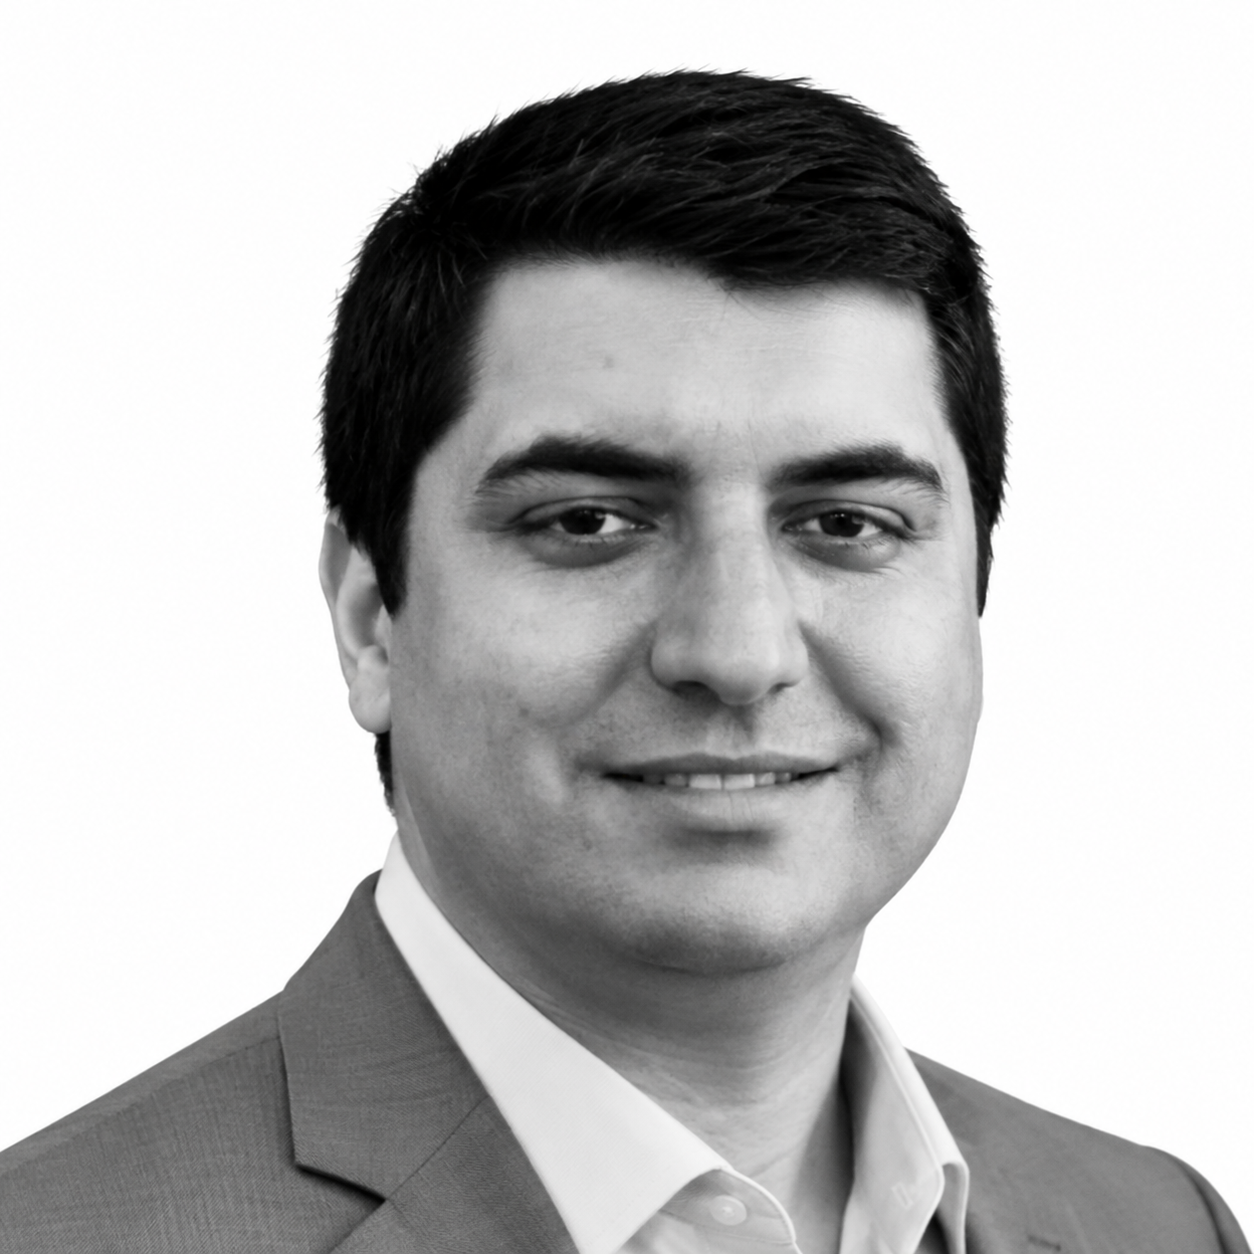
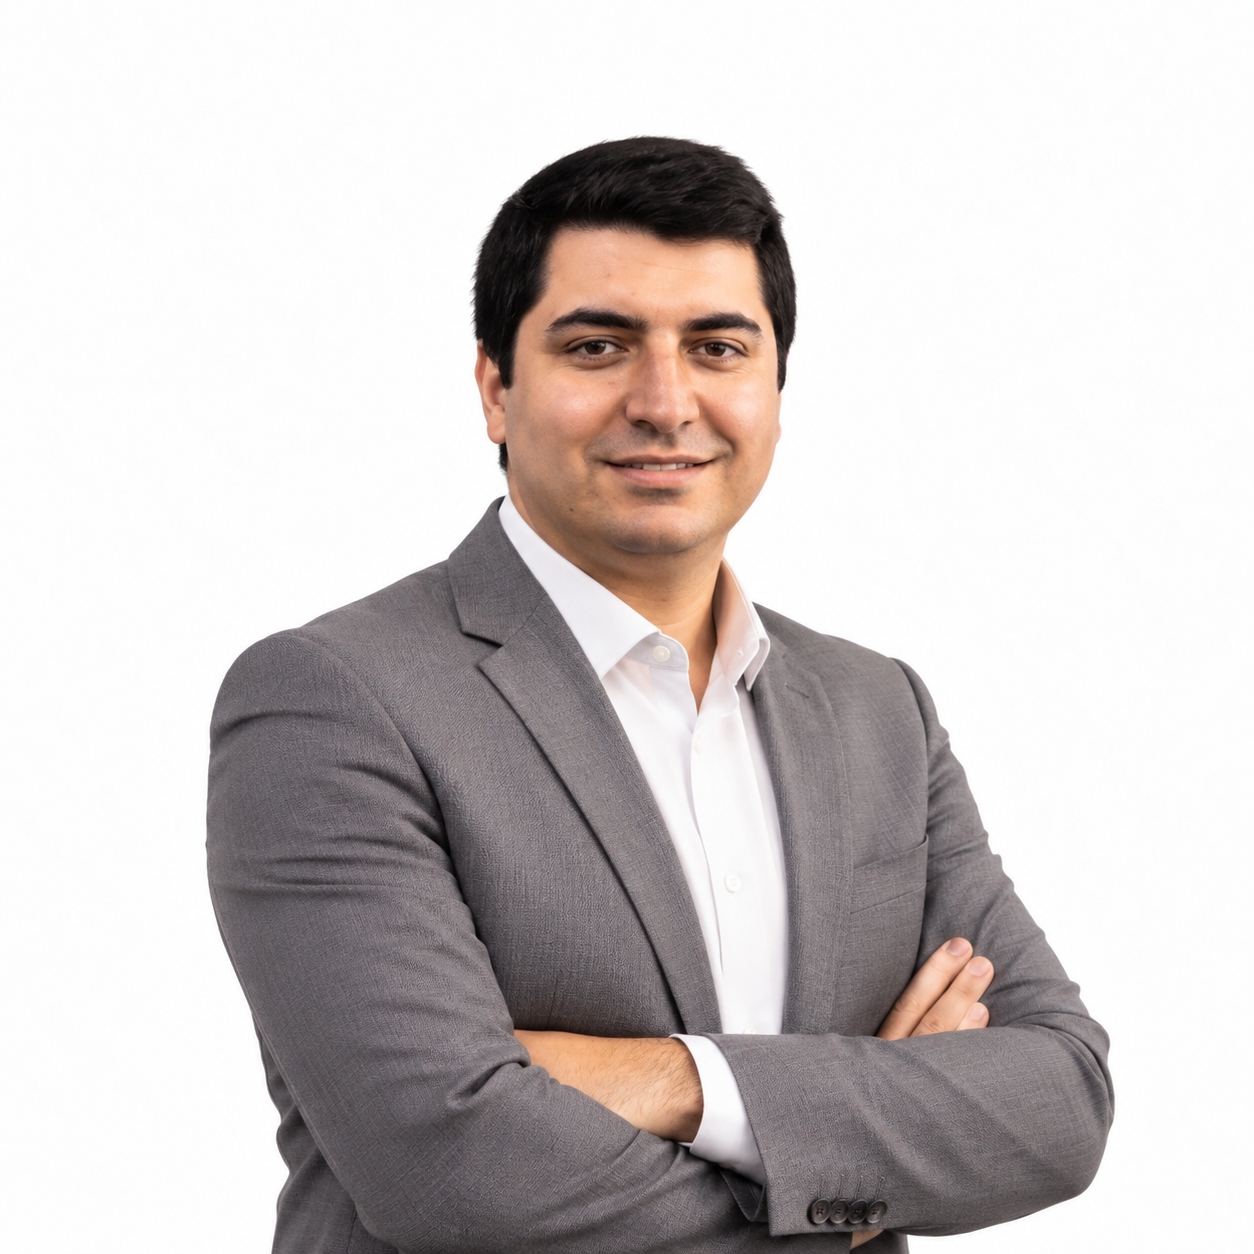
Update Yagiz Kum photo and mentor title

diff --git a/app/page.tsx b/app/page.tsx
@@ -26,7 +26,7 @@ const boardMembers = [
   },
   {
     name: "Yağız Kum",
-    title: "Program Koordinatörü / Mentor",
+    title: "Mentor",
     image: "/profiles/yagiz-kum-white.png",
   },
 ];
